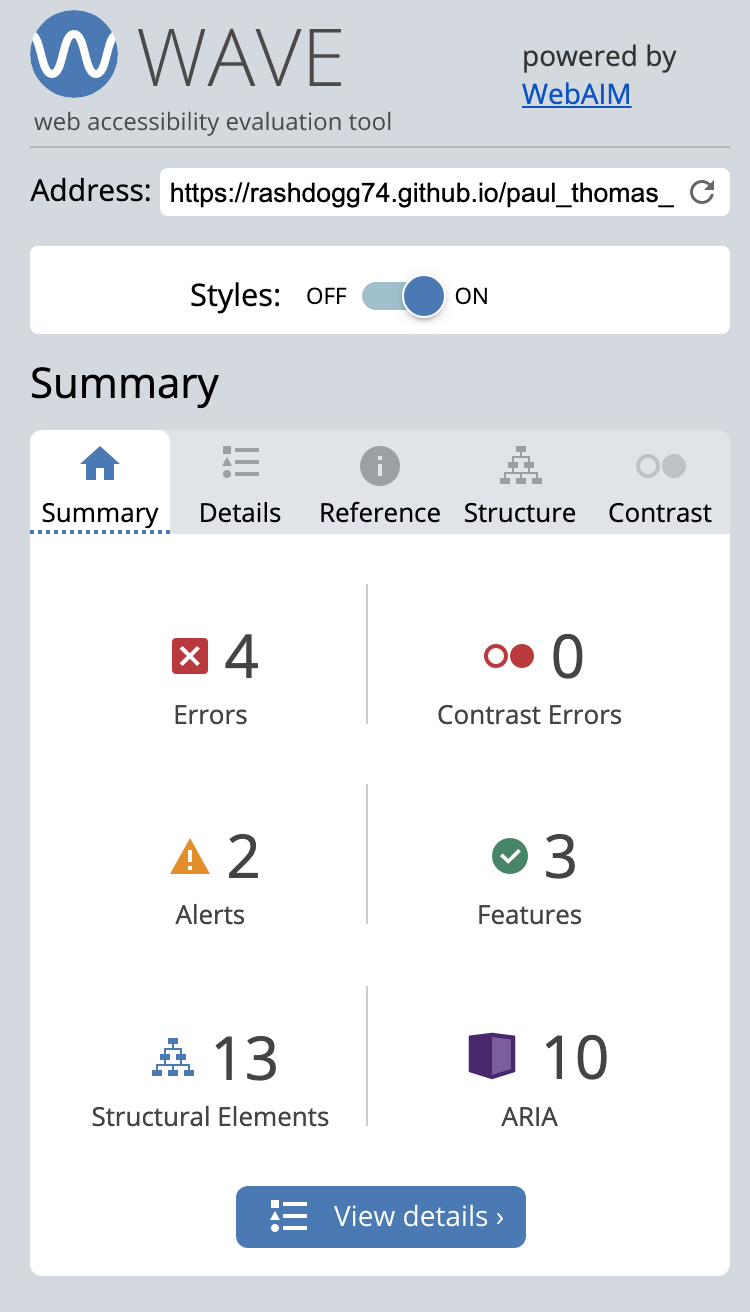
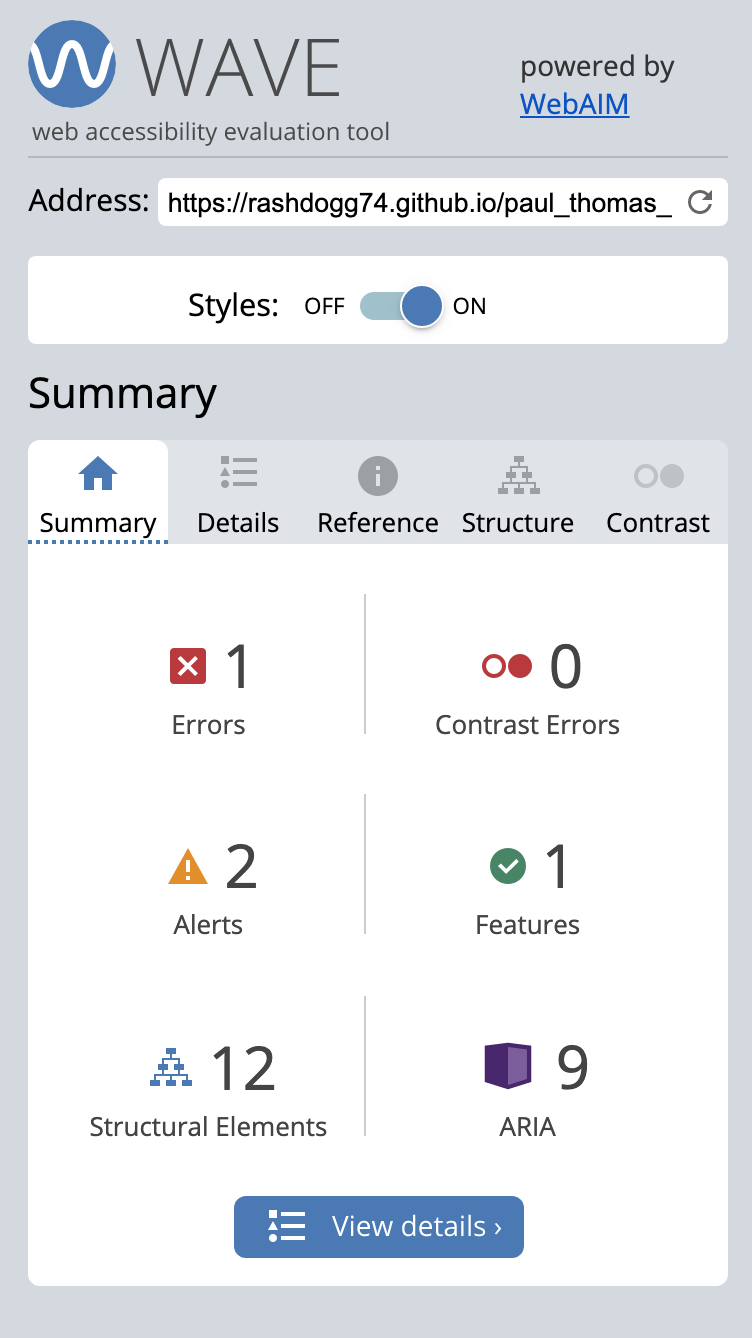
update readme file

diff --git a/README.md b/README.md
@@ -216,65 +216,34 @@ The page consists of five pages and the main features include training images, l
 
 ### HTML Validation
 The W3C Markup Validation Service was used to validate the HTML of the website. All pages passed with no errors nor warnings to show.
-<details><summary>Home</summary>
-<img src="../assets/images/index-validated.png">
-</details>
-<details><summary>About</summary>
-<img src="/assets/images/">
-</details>
-<details><summary>Group Training</summary>
-<img src="/assets/images/">
-</details>
-<details><summary>Private Training</summary>
-<img src="/assets/images/">
-</details>
-<details><summary>Contact</summary>
-<img src="/assets/images/">
-</details>
+
+![Home](/assets/images/index-validated.png)
+![About](/assets/images/about-validated.png)
+![Group-Training](/assets/images/group-validated.png)
+![Private-Training](/assets/images/private-training.png)
+![Contact](/assets/images/contact-validated.png)
 
 ### CSS Validation
 The W3C Jigsaw CSS Validation Service was used to validate the CSS of the website.
 When validating the page as a whole, the validator shows some errors linked to Bootstrap v5.0. When validating just my own custom CSS it passes with no errors found and some warnings associated to using root variables.
-<details><summary>styles.css</summary>
-<img src="/assets/images/">
-</details>
+![CSS](/assets/images/css-validation.png)
 
 ### Accessibility
-The WAVE WebAIM web accessibility evaluation tool was used to ensure the website met high accessibility standards. All pages pass with 0 errors.
-<details><summary>Home</summary>
-<img src="/assets/images/">
-</details>
-<details><summary>About</summary>
-<img src="/assets/images/">
-</details>
-<details><summary>Group Training</summary>
-<img src="/assets/images/">
-</details>
-<details><summary>Private Training</summary>
-<img src="/assets/images/">
-</details>
-<details><summary>Contact</summary>
-<img src="/assets/images/">
-</details>
+The WAVE WebAIM web accessibility evaluation tool was used to ensure the website met high accessibility standards. All pages pass with 1 errors. This error is due to a label which must be included for the toggle menu (burger menu) to work functionally only using CSS (no bootstrap).
+![Home](/assets/images/index-acc.png)
+![About](/assets/images/about-acc.png)
+![Group-Training](/assets/images/group-acc.png)
+![Private-Training](/assets/images/private-acc.png)
+![Contact](/assets/images/contact-acc.png)
 
 ### Performance 
-Google Lighthouse in Google Chrome Developer Tools was used to test the performance of the website. 
+Google Lighthouse in Google Chrome Developer Tools was used to test the performance of the website. The best practices score was lower than expected becuase of large images sizes. 
 
-<details><summary>Home</summary>
-<img src="docs/validation/lighthouse-performance-index.jpg">
-</details>
-<details><summary>About</summary>
-<img src="docs/validation/lighthouse-performance-about.jpg">
-</details>
-<details><summary>Menu</summary>
-<img src="docs/validation/lighthouse-performance-menu.jpg">
-</details>
-<details><summary>Gallery</summary>
-<img src="docs/validation/lighthouse-performance-gallery.jpg">
-</details>
-<details><summary>Contact</summary>
-<img src="docs/validation/lighthouse-performance-contact.jpg">
-</details>
+![Home](/assets/images/index-light.png)
+![About](/assets/images/about-light.png)
+![Group-Training](/assets/images/group-light.png)
+![Private-Training](/assets/images/private-light.png)
+![Contact](/assets/images/contact-light.png)
 
 ### Performing tests on various devices 
 The website was tested on the following devices:
@@ -298,139 +267,108 @@ The website was tested on the following browsers:
 
 | **Feature** | **Action** | **Expected Result** | **Actual Result** |
 |-------------|------------|---------------------|-------------------|
-| Map | Navigate to the Contact Us page, locate the Google Map | Locating a map showing the location of the restaurant | Works as expected |
-| Footer - contact information section | On any page scroll down to the footer | Find the address of the restaurant | Works as expected |
+| Home page | Navigate to the type of training you are most interested in | Locating group or private training information | Works as expected |
+| Footer - social media links | On any page scroll down to the footer | Find the links to the social media accounts | Works as expected |
 
-<details><summary>Screenshots</summary>
-<img src="docs/user-story-testing/user-story-1v1-12.jpg">
-<img src="docs/user-story-testing/user-story-1v2.jpg">
-</details>
 
 2. As a first time user, I want to know times, locations and types of classes offered.
 
 
 | **Feature** | **Action** | **Expected Result** | **Actual Result** |
 |-------------|------------|---------------------|-------------------|
-| Menu | Navigate to the Menu page | See prices on menu page | Works as expected |
+| Group / Private training pages | Navigate to the Menu  | See training options and descriptions | Works as expected |
 
-<details><summary>Screenshots</summary>
-<img src="docs/user-story-testing/user-story-2.jpg">
-</details>
+
 
 3. As a first time user, I want to know how to get in contact with the trainer and request more information/ have an initial consultation. 
 
 | **Feature** | **Action** | **Expected Result** | **Actual Result** |
 |-------------|------------|---------------------|-------------------|
-| About Us | Navigate to the About page and locate the About Us section | Find description of the restaurant | Works as expected |
-| Customer reviews | Navigate to the About page, scroll down to What our guests say section | Read customer reviews | Works as expected | 
+| Contact page | Navigate to the contact page and locate the form | Find and fill out contact form | Works as expected |
+| Footer-social media links  | On any page scroll down to the footer | Contact via social media platform of your choice | Works as expected | 
 
-<details><summary>Screenshots</summary>
-<img src="docs/user-story-testing/user-story-3-14.jpg">
-</details>
 
 4. As a first time user, I want to get a feel of what to expect in a group/private fitness class.
 
 | **Feature** | **Action** | **Expected Result** | **Actual Result** |
 |-------------|------------|---------------------|-------------------|
-| Gallery | Navigate to the Gallery page | Find pictures of the restaurant and food served there | Works as expected |
-| Promo video | Navigate to the GAlelry page and scroll to the promo video | Watch promo video | Works as expected |
+| Gallery | Navigate to the home page or either training page | Find pictures of the classes | Works as expected |
 
-<details><summary>Screenshots</summary>
-<img src="docs/user-story-testing/user-story-4.jpg">
-</details>
+
 
 5. As a returning user, I want to see the times, types and locations of classes.
 
 | **Feature** | **Action** | **Expected Result** | **Actual Result** |
 |-------------|------------|---------------------|-------------------|
-| Meal-deal | On home page scroll down to the Sunday meal deal section | Find the meal-deal for the upcomming Sunday | Works as expected |
+| Group-training page | Navigate to the group training page and locate the class table | Find the class schedule | Works as expected |
 
-<details><summary>Screenshots</summary>
-<img src="docs/user-story-testing/user-story-5.jpg">
-</details>
 
 6. As a returnign user, I want to get in contact with the trainer.
 
 | **Feature** | **Action** | **Expected Result** | **Actual Result** |
 |-------------|------------|---------------------|-------------------|
-| Footer - opening times section | On any page scroll to the footer | See opening times | Works as expected |
+| Contact page | Navigate to the contact page and locate the form | Find and fill out contact form | Works as expected |
+| Footer-social media links  | On any page scroll down to the footer | Contact via social media platform of your choice | Works as expected | 
 
-<details><summary>Screenshots</summary>
-<img src="docs/user-story-testing/user-story-6.jpg">
-</details>
 
 7. As a returning user, I want to find a social media link to connect with the business.
 
 | **Feature** | **Action** | **Expected Result** | **Actual Result** |
 |-------------|------------|---------------------|-------------------|
-| Footer - contact information section | On any page scroll to the footer | See phone number | Works as expected |
-| Info Box | Navigate to Contact Us page and locate the How to find us section | See phone number | Works as expected |
+| Footer-social media links  | On any page scroll down to the footer | Contact via social media platform of your choice | Works as expected | 
 
-<details><summary>Screenshots</summary>
-<img src="docs/user-story-testing/user-story-7v1-15.jpg">
-<img src="docs/user-story-testing/user-story-7v2-15.jpg">
-</details>
+
 
 8. As a returning user, I want to find out a little more about Paul Thomas background.
 
 | **Feature** | **Action** | **Expected Result** | **Actual Result** |
 |-------------|------------|---------------------|-------------------|
-| Menu | Navigate to the menu page | Read the menu | Works as expected |
+| About page | Navigate to the contact page and locate the section on Paul Thomas | Read the page | Works as expected |
 
-<details><summary>Screenshots</summary>
-<img src="docs/user-story-testing/user-story-8.jpg">
-</details>
+
 
 9. As a returning user, I want to leave some comment, suggestion or message to the staff.
 
 | **Feature** | **Action** | **Expected Result** | **Actual Result** |
 |-------------|------------|---------------------|-------------------|
-| Contact Form | Navigate to the Contact Us Page and locate the contact form, fill out and submit contact form | Data submited via contact form | Works as expectd |
+| Footer-social media links  | On any page scroll down to the footer | Contact via social media platform of your choice | Works as expected | 
+| Contact page | Navigate to the contact page and locate the form | Find and fill out contact form | Works as expected |
 
-<details><summary>Screenshots</summary>
-<img src="docs/user-story-testing/user-story-9-15.jpg">
-</details>
 
 10. As a returning user, I want to get directions to the classes.
 
 | **Feature** | **Action** | **Expected Result** | **Actual Result** |
 |-------------|------------|---------------------|-------------------|
-| Footer - social media section | On any page scroll to the bottom | Click on social media links | Works as expected | 
+| Map | On group training page, scroll to the bottom to find embedded map showing class locations | Click on map locations | Works as expected | 
 
-<details><summary>Screenshots</summary>
-<img src="docs/user-story-testing/user-story-10.jpg">
-</details>
+
 
 11. As the site owner, I want users to interact with my brand, get to know me, the services I offer and sign up for more information.
 
 
 | **Feature** | **Action** | **Expected Result** | **Actual Result** |
 |-------------|------------|---------------------|-------------------|
-| Meet the Chef | Navigate to the About page and scroll down to Meet the Chef section | Find brief bio of the Chef | Works as expected |
+| Footer-social media links  | On any page scroll down to the footer | Contact via social media platform of your choice | Works as expected | 
+| Contact page | Navigate to the contact page and locate the form | Find and fill out contact form | Works as expected |
+| About page | Navigate to the contact page and locate the section on Paul Thomas | Read the page | Works as expected |
 
-<details><summary>Screenshots</summary>
-<img src="docs/user-story-testing/user-story-11.jpg">
-</details>
+
 
 12. As the site owner, I want users to get a feel for the types of services offered.
 
 | **Feature** | **Action** | **Expected Result** | **Actual Result** |
 |-------------|------------|---------------------|-------------------|
-| Map | Navigate to the Contact Us page, locate the map and click on directions link | See directions to the restaurant on Goole Maps | Works as expected |
+| Group / Private training pages | Navigate to the Menu  | See training options and descriptions | Works as expected |
+| Home page | Navigate to the type of training you are most interested in | Locating group or private training information | Works as expected |
 
-<details><summary>Screenshots</summary>
-<img src="docs/user-story-testing/user-story-1v1-12.jpg">
-</details>
 
 13. As the site owner, I want users to be able to see some client testimonies.
 
 | **Feature** | **Action** | **Expected Result** | **Actual Result** |
 |-------------|------------|---------------------|-------------------|
-| News | Scroll down on home page and locate news section | Find latest news | Works as expected |
+| About page | Navigate to the contact page and locate the section on client testimonies at the bottom of the page | Read the section | Works as expected |
 
-<details><summary>Screenshots</summary>
-<img src="docs/user-story-testing/user-story-13.jpg">
-</details>
+
 
 
 ## Bugs
@@ -445,21 +383,21 @@ The website was tested on the following browsers:
 
 ## Deployment
 The website was deployed using GitHub Pages by following these steps:
-1. In the GitHub repository navigate to the Settings tab
-2. On the left hand menu select Pages
-3. For the source select Branch: master
-4. After the webpage refreshes automaticaly you will se a ribbon on the top saying: "Your site is published at https://4n4ru.github.io/CI_MS1_BodelschwingherHof/"
+1. In the GitHub repository navigate to the Settings tab.
+2. Select Pages from the menu on the left hand-side.
+3. For the source select Branch: master.
+4. After the webpage refreshes automaticaly a ribbon on the top says: "Your site is published at "https://rashdogg74.github.io/paul_thomas_pt/"
 
-You can for fork the repository by following these steps:
-1. Go to the GitHub repository
-2. Click on Fork button in upper right hand corner
+You can fork the repository by following these steps:
+1. Go to the GitHub repository.
+2. Click on Fork button in upper right hand corner.
 
 You can clone the repository by following these steps:
-1. Go to the GitHub repository 
-2. Locate the Code button above the list of files and click it 
-3. Select if you prefere to clone using HTTPS, SSH, or Github CLI and click the copy button to copy the URL to your clipboard
-4. Open Git Bash
-5. Change the current working directory to the one where you want the cloned directory
+1. Go to the GitHub repository.
+2. Locate the Code button above the list of files and click it.
+3. Select if you prefer to clone using HTTPS, SSH, or Github CLI and click the copy button to copy the URL to your clipboard.
+4. Open Git Bash.
+5. Change the current working directory to the one where you want the cloned directory.
 6. Type git clone and paste the URL from the clipboard ($ git clone https://github.com/YOUR-USERNAME/YOUR-REPOSITORY)
 7.Press Enter to create your local clone.
 
